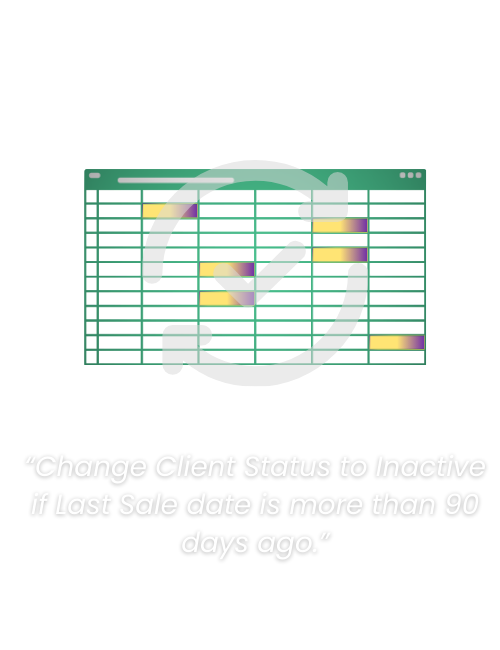
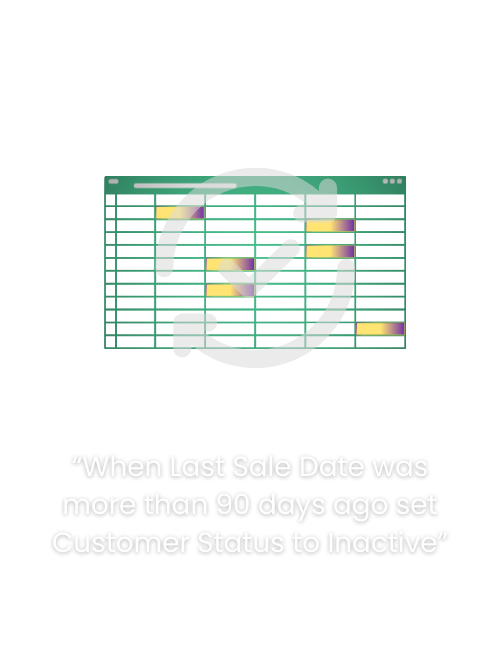
started to change home page based on new notes-at carousel

diff --git a/users/static/users/index_js.js b/users/static/users/index_js.js
@@ -6,10 +6,9 @@ async function load_homepage(){
     await home_page_carousel('#homepagebannertext', 'doData.ai', [null], true, true);
     await home_page_carousel('#herotext', 'AI Data analysis - offline', [null], true, true);
     await $('#homepagebuildalgo').show();
-    await home_page_carousel('#howworkheader', ['ChatGPT Excel Analysis - Offline'], [null], false, false);
+    await home_page_carousel('#howworkheader', ['What is doData.ai?'], [null], false, false);
     // await home_page_carousel('#howworkheader2', ['Never upload your data'], [null], false, false);
     // await home_page_carousel('#howwork', 'Describe what you want to do to your data.', [null], true, true);
-    await showcards();
 }
 
 async function showcards(){
@@ -35,62 +34,93 @@ $(window).scroll(function() {
     } else {
         $('.main_h').removeClass('sticky');
     }
-    if(isScrolledIntoView('#howtochoose')){
-        howtochoose();
+    if(isScrolledIntoView('#whatisheader')){
+        whatis();
     }
-    if(isScrolledIntoView('#describeproblem')){
+    if(isScrolledIntoView('#likewhatheader')){
+        likewhat();
+    }
+    if(isScrolledIntoView('#howworkheader2')){
         describetheproblem();
-    }
-    if(isScrolledIntoView('#ifunsure')){
-        ifunsure();
     }
     //if(isScrolledIntoView('#whereresult')){
     //    whereresult();
     //}
 });
 
-var howtochoose = (function() {
+var whatis = (function() {
     var executed = false;
     return async function() {
         if (!executed) {
             executed = true;
-            await home_page_carousel('#howtochoose', 'Use ChatGPT to analyze your data without uploading your files. Describe what you want to do and we\'ll build a simple desktop app you can run offline.', [null], true, true);
-            await showalgopaths()
+            await home_page_carousel('#whatisheader', 'What is doData.ai?', [null], true, true);
+            await home_page_carousel('#whatis', 'An app which performs Excel analysis using AI offline.', [null], true, true);
+            var linebreak = document.createElement("br");
+            $('#whatis').append(linebreak);
+            await home_page_carousel('#whatis', 'Ask ChatGPT to do stuff to your excel files without ever uploading your data to any website.', [null], true, true);
+            //await showalgopaths()
         }
     };
 })();
+
 async function showalgopaths(){
     await $('#algopaths').css('visibility','visible');
 }
 
 
-var ifunsure = (function() {
+var likewhat = (function() {
     var executed = false;
     return async function() {
         if (!executed) {
             executed = true;
-            await home_page_carousel('#ifunsure', 'Your apps are in Python. This way you can see every line of code you\'ve just downloaded.', [null], true, true);
             var linebreak = document.createElement("br");
-            $('#ifunsure').append(linebreak);
+            await home_page_carousel('#likewhatheader', 'Like what?', [null], true, true);
+            await showcards();
+
+            await home_page_carousel('#likewhat', '1. Filter datasets:', [null], true, true);
             var linebreak = document.createElement("br");
-            $('#ifunsure').append(linebreak);
-            await home_page_carousel('#ifunsure', 'No trust required. 100% transparency.', [null], true, true);
+            $('#likewhat').append(linebreak);
+            await home_page_carousel('#likewhat', '  \"Select all sales where Sale Date is between Oct 1 and Jan 31 where Sale Value is greater than $30,000\"', [null], true, true);
             var linebreak = document.createElement("br");
-            $('#ifunsure').append(linebreak);
+            $('#likewhat').append(linebreak);
             var linebreak = document.createElement("br");
-            $('#ifunsure').append(linebreak);
-            await home_page_carousel('#ifunsure', 'You don\'t need to do any coding. We alredy did that.', [null], true, true);
+            $('#likewhat').append(linebreak);
+
+            await home_page_carousel('#likewhat', '2. Perform complex operations on columns:', [null], true, true);
             var linebreak = document.createElement("br");
-            $('#ifunsure').append(linebreak);
+            $('#likewhat').append(linebreak);
+            await home_page_carousel('#likewhat', '  \"When Last Sale Date was more than 90 days ago set Customer Status to Inactive\"', [null], true, true);
             var linebreak = document.createElement("br");
-            $('#ifunsure').append(linebreak);
-            await home_page_carousel('#ifunsure', 'Install Python once.', [null], true, true);
+            $('#likewhat').append(linebreak);
+            await home_page_carousel('#likewhat', '  \"Create a list of clients whose company names end in .ai\"', [null], true, true);
             var linebreak = document.createElement("br");
-            $('#ifunsure').append(linebreak);
+            $('#likewhat').append(linebreak);
             var linebreak = document.createElement("br");
-            $('#ifunsure').append(linebreak);
-            await home_page_carousel('#ifunsure', 'Then just click on your apps to run them.', [null], true, true);
-            await showdesctext()
+            $('#likewhat').append(linebreak);
+
+            await home_page_carousel('#likewhat', '3. Create graphs:', [null], true, true);
+            var linebreak = document.createElement("br");
+            $('#likewhat').append(linebreak);
+            await home_page_carousel('#likewhat', '  \"Graph the Sale Value by the Sale Date for the last 90 days\"', [null], true, true);
+            var linebreak = document.createElement("br");
+            $('#likewhat').append(linebreak);
+            var linebreak = document.createElement("br");
+            $('#likewhat').append(linebreak);
+
+            await home_page_carousel('#likewhat', '4. Create formulas:', [null], true, true);
+            var linebreak = document.createElement("br");
+            $('#likewhat').append(linebreak);
+            await home_page_carousel('#likewhat', '  \"Create a formula to replace the . with - in the Phone Numbers\"', [null], true, true);
+            var linebreak = document.createElement("br");
+            $('#likewhat').append(linebreak);
+            var linebreak = document.createElement("br");
+            $('#likewhat').append(linebreak);
+
+            await home_page_carousel('#likewhat', '5. Ask questions of your data', [null], true, true);
+            var linebreak = document.createElement("br");
+            $('#likewhat').append(linebreak);
+            await home_page_carousel('#likewhat', '  \"Is the sum of Income higher than the sum of all the Expenses for the last month\"', [null], true, true);
+            $('#likewhat').append(linebreak);
         }
     };
 })();

diff --git a/users/templates/index.html b/users/templates/index.html
@@ -69,105 +69,47 @@
   </div>
 
   <div class="row content">
-      <h1 id="howworkheader"></h1>
-      <h1 id="howworkheader2"></h1>
 
-      <p id="howtochoose"></p>
-      <video id="searchalgopath"  autoplay loop muted>
+
+    <h1 id="whatisheader"></h1>
+    <p id="whatis" style="height:120px;"></p>
+
+
+
+
+    <h1 id="likewhatheader"></h1>
+    <div class="carousel fade-in" id="menu-cards">
+      <ul class="carousel__list">
+        <li class="carousel__item" data-pos="-2">
+          <img class="sample-menu-img" src="{% static 'users/images/Update.png' %}">
+        </li>
+        <li class="carousel__item" data-pos="-1">
+          <img class="sample-menu-img" src="{% static 'users/images/Calculate.png' %}">
+        </li>
+        <li class="carousel__item" data-pos="0">
+          <img class="sample-menu-img" src="{% static 'users/images/Column.png' %}">
+        </li>
+        <li class="carousel__item" data-pos="1">
+          <img class="sample-menu-img" src="{% static 'users/images/Extract.png' %}">
+        </li>
+        <li class="carousel__item" data-pos="2">
+          <img class="sample-menu-img" src="{% static 'users/images/Graph.png' %}">
+        </li>
+      </ul>
+    </div>
+
+
+      
+
+
+
+
+
+      <video style="display:none;" id="searchalgopath"  autoplay loop muted>
         <source src="{% static 'users/images/howto.mp4' %}" type="video/mp4" />
       </video>
-
-      
-      <div class="carousel fade-in" style="margin-top:20%;" id="menu-cards">
-        <ul class="carousel__list">
-          <li class="carousel__item" data-pos="-2">
-            <img class="sample-menu-img" src="{% static 'users/images/Update.png' %}">
-          </li>
-          <li class="carousel__item" data-pos="-1">
-            <img class="sample-menu-img" src="{% static 'users/images/Calculate.png' %}">
-          </li>
-          <li class="carousel__item" data-pos="0">
-            <img class="sample-menu-img" src="{% static 'users/images/Column.png' %}">
-          </li>
-          <li class="carousel__item" data-pos="1">
-            <img class="sample-menu-img" src="{% static 'users/images/Extract.png' %}">
-          </li>
-          <li class="carousel__item" data-pos="2">
-            <img class="sample-menu-img" src="{% static 'users/images/Graph.png' %}">
-          </li>
-        </ul>
-      </div>
-
-      
-      <p id="ifunsure"></p> 
-      <div>
-        <div style="margin-bottom:20%;"> 
-          <a class="anchors" target="_blank" href="https://www.python.org/downloads/">Download Python Here</a>
-        </div>
-        <div>
-          <img class="fade-in" style="width:1000px;height:500px;margin-bottom:10%;" id="textbox-algo-desc-wrap" src="{% static 'users/images/how.png' %}">
-        </div>
-      </div>
-
-      
-
-
-
-
-      <p id="describeproblem" style="height:205px;"></p>
       <p style="text-align: center;font-size:16px;">Copyright  &#169; 2024 doData.ai</p>
-      <!--
-      <p id="howwork"></p>
-      <div class="carousel fade-in" id="menu-cards">
-        <ul class="carousel__list">
-          <li class="carousel__item" data-pos="-2">
-            <img class="sample-menu-img" src="{% static 'users/images/Update.png' %}">
-          </li>
-          <li class="carousel__item" data-pos="-1">
-            <img class="sample-menu-img" src="{% static 'users/images/Calculate.png' %}">
-          </li>
-          <li class="carousel__item" data-pos="0">
-            <img class="sample-menu-img" src="{% static 'users/images/Column.png' %}">
-          </li>
-          <li class="carousel__item" data-pos="1">
-            <img class="sample-menu-img" src="{% static 'users/images/Extract.png' %}">
-          </li>
-          <li class="carousel__item" data-pos="2">
-            <img class="sample-menu-img" src="{% static 'users/images/Graph.png' %}">
-          </li>
-        </ul>
-      </div>
-
-
-
-
       
-
-      
-
-
-
-
-      <p id="whataremenus" style="margin-top:20%;"></p>
-
-
-      
-
-
-      <p id="whereresult" style="margin-top:4%;"></p>
-      <div class="submit-algo-buttons" id="homepagebuildalgobottom">
-        <button id="homepagebuildalgo-btm" class="glowbutton">Build your app</button>
-      </div>  
-      
-      <h1 class="sec02"></h1>
-      <p></p>
-
-
-      <h1 class="sec03"></h1>
-      <p></p>
-      <h1 class="sec04"></h1>
-      <p></p>
-      -->
   </div>
 
 

diff --git a/users/static/users/home-page.css b/users/static/users/home-page.css
@@ -44,6 +44,7 @@ body {
 h1{
     color: #fff;
     font-size: 28px;
+    margin-top:10%;
 }
 .faded{
   font-size: 28px;
@@ -207,7 +208,7 @@ h1 {
 }
 p {
   margin-bottom: 20px;
-  font-size: 20px;
+  font-size: 18px;
   line-height: 2;
 }
 .content {
@@ -377,16 +378,16 @@ section {
   justify-content: center;
   color: #fff;
   font-size: 0px;
-  width: 308px;
-  height: 400px;
+  width: 400px;
+  height: 478px;
   border-radius: 12px;
   box-shadow: 0px 2px 8px 0px rgba(50, 50, 50, 0.5);
   position: absolute;
   transition: all 0.3s ease-in;
 }
 .sample-menu-img{
-  width: 306px;
-  height: 398px;
+  width: 398px;
+  height: 476px;
   border-radius: 12px;
 }
 .carousel__item:nth-child(1) {
